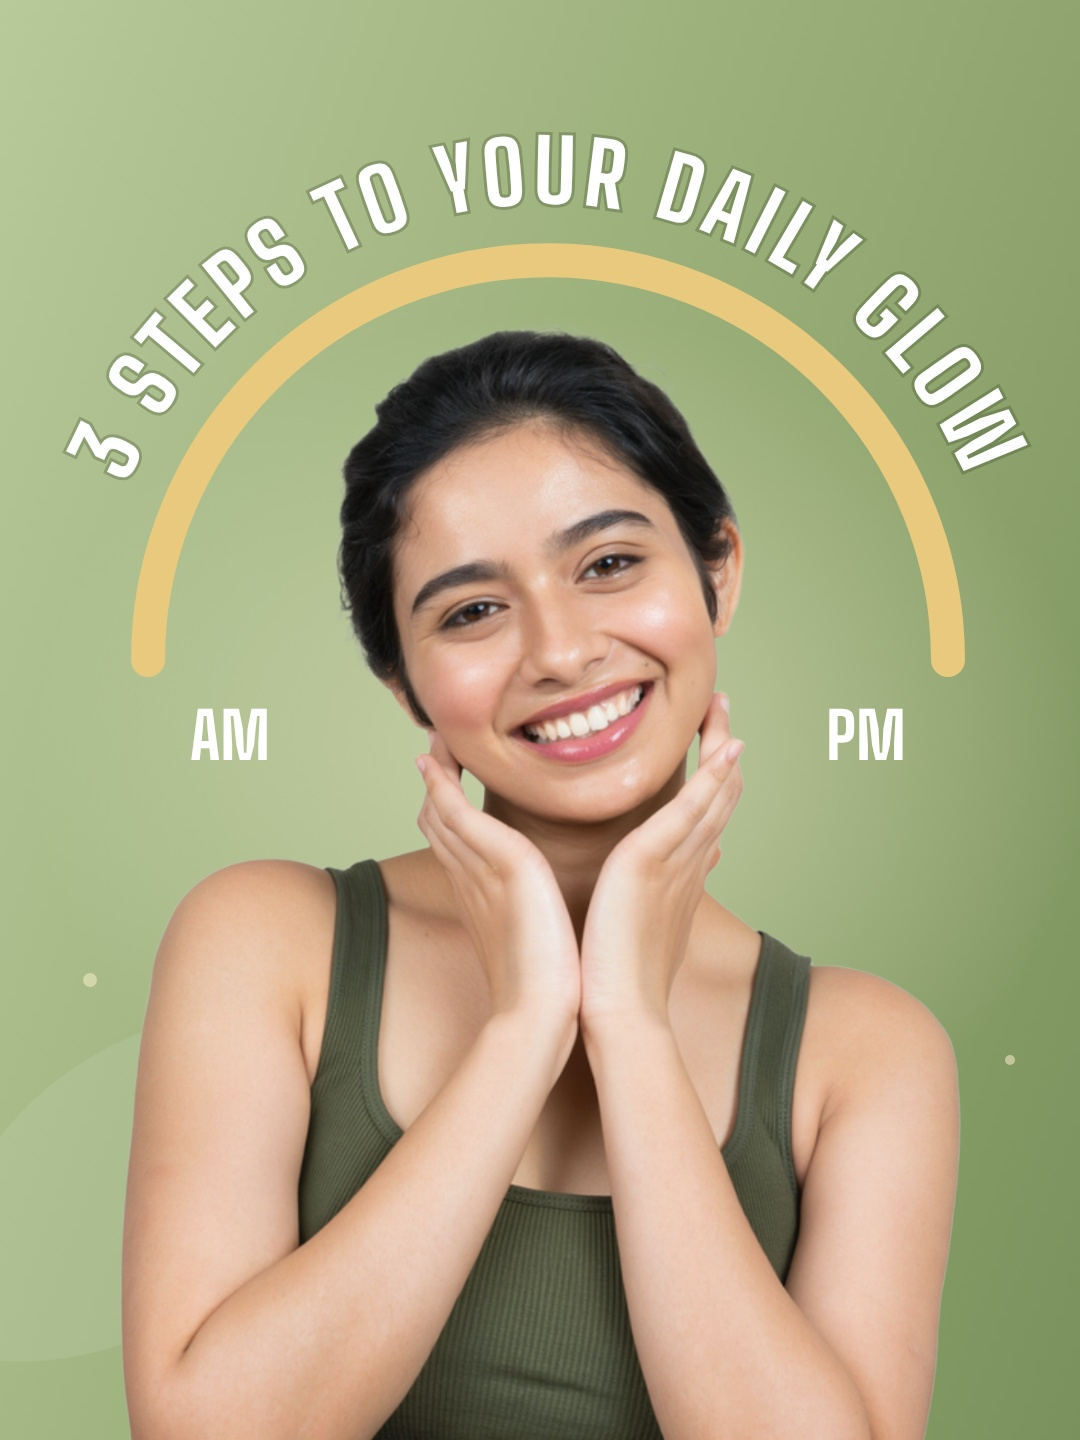
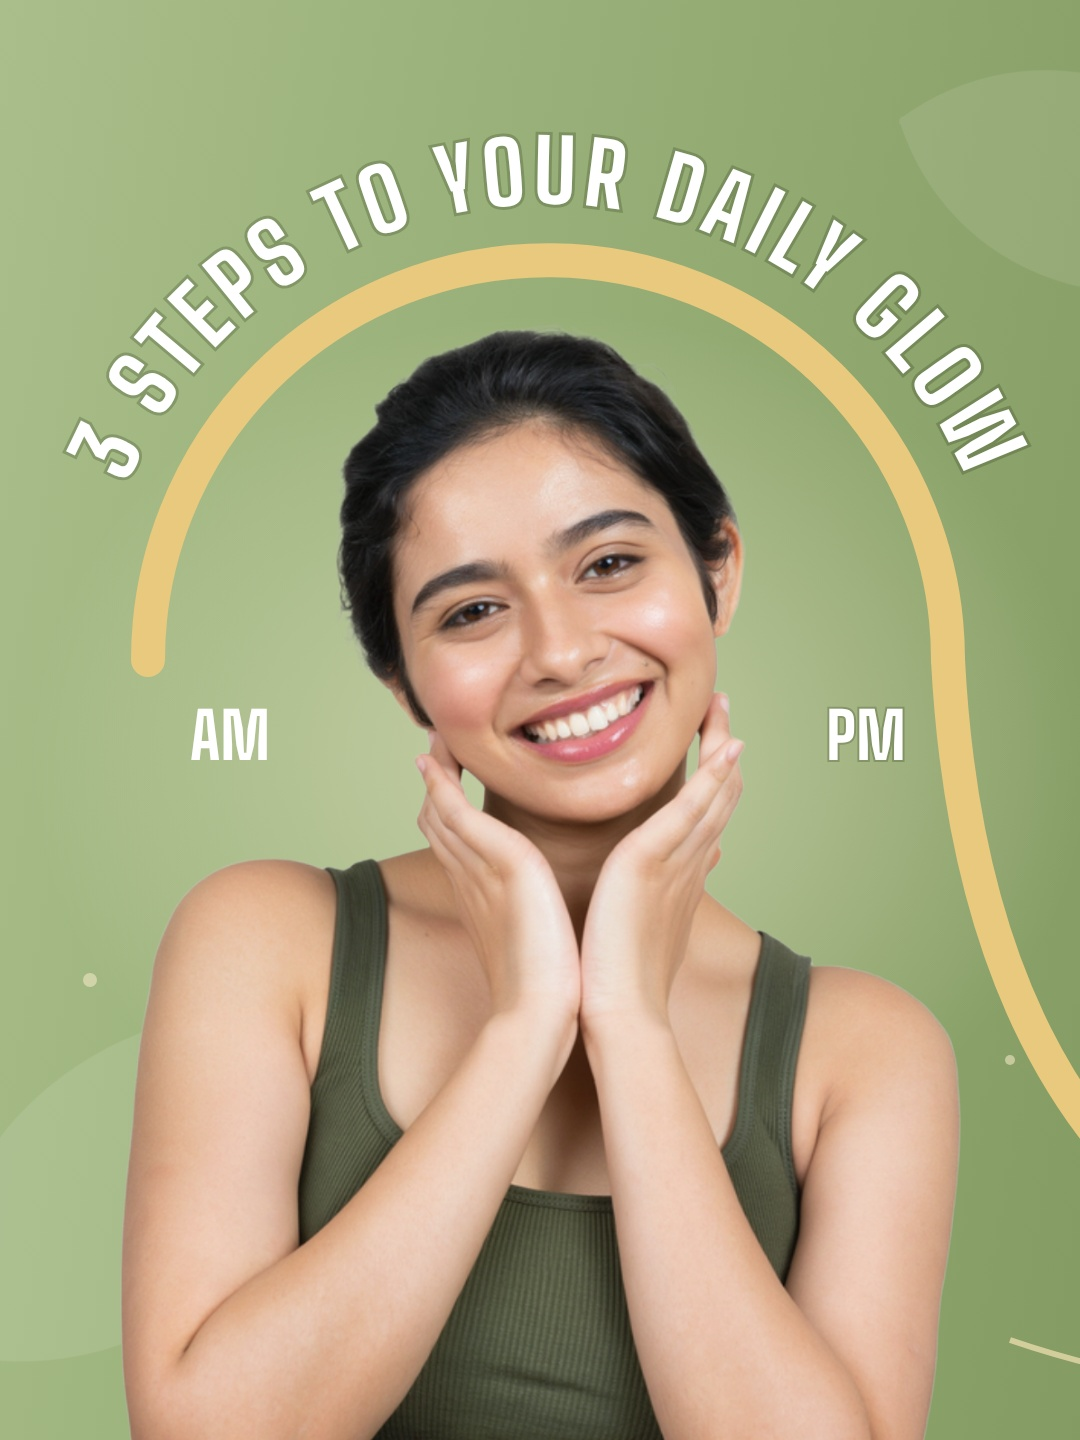
Instagram panorama: gold ribbon and leaves flowing across tiles
Claude-Session: https://claude.ai/code/session_01LcLnYNDzurLSB8XLdGSFaY

Changed region(s): [[0.7639, 0.4688, 1.0, 0.7812], [0.9778, 0.9375, 1.0, 0.9688]]

diff --git a/brand/lumira-beauty/social/instagram-panorama/source/ig.html b/brand/lumira-beauty/social/instagram-panorama/source/ig.html
@@ -4,7 +4,7 @@ html,body{margin:0} .abs{position:absolute}
 #c{position:relative;width:3240px;height:1440px;overflow:hidden;font-family:Jost;color:#fff;
  background:radial-gradient(760px 640px at 560px 760px,rgba(246,240,214,.5),rgba(246,240,214,0) 70%),
  radial-gradient(620px 560px at 1620px 820px,rgba(247,241,220,.42),rgba(247,241,220,0) 72%),
- linear-gradient(110deg,#B8C99A 0%,#93A872 26%,#6D8451 52%,#4B5E36 78%,#3A4A2B 100%)}
+ linear-gradient(100deg,#A9BE8A 0%,#8CA36B 30%,#748B55 55%,#5E7443 80%,#52673A 100%)}
 .step{width:360px;white-space:nowrap;text-align:center;font-weight:600;font-size:28px;letter-spacing:.22em;color:#F3DFA8;text-shadow:0 2px 8px rgba(30,40,20,.35)}
 .lab{font-weight:600;letter-spacing:.34em;font-size:32px;color:#E8CC8A}
 </style></head><body><div id="c">
@@ -13,16 +13,20 @@ html,body{margin:0} .abs{position:absolute}
  <g id="leaf"><path d="M0 0 C 50 -70 150 -75 220 0 C 150 75 50 70 0 0 Z"/><path d="M0 0 L 215 0" stroke-width="4" fill="none"/></g></defs>
  <g fill="#fff" stroke="#fff" opacity=".10">
   <use href="#leaf" transform="translate(-60 1350) rotate(-40) scale(2.4)"/>
-  <use href="#leaf" transform="translate(1250 250) rotate(-20) scale(1.3)"/>
+  <use href="#leaf" transform="translate(900 120) rotate(18) scale(1.9)"/>
+  <use href="#leaf" transform="translate(1980 1180) rotate(-28) scale(2.2)"/>
+  <use href="#leaf" transform="translate(2070 140) rotate(25) scale(1.4)"/>
   <use href="#leaf" transform="translate(3300 1150) rotate(200) scale(2.6)"/>
   <use href="#leaf" transform="translate(2950 -60) rotate(70) scale(2)"/>
  </g>
  <g fill="#F7EBC8" opacity=".55"><circle cx="90" cy="980" r="7"/><circle cx="1010" cy="1060" r="5"/><circle cx="1180" cy="620" r="6"/><circle cx="2080" cy="520" r="5"/><circle cx="3120" cy="420" r="6"/><circle cx="2300" cy="1300" r="5"/></g>
+ <path d="M 948 660 C 962 930 1050 1180 1300 1290 S 1900 1395 2250 1330 S 2900 1270 3300 1290" fill="none" stroke="#E8C97E" stroke-width="34" stroke-linecap="round"/>
+ <path d="M 1010 1340 C 1300 1440 1800 1440 2200 1360 S 2900 1350 3300 1370" fill="none" stroke="#F3E2B4" stroke-width="6" opacity=".7"/>
  <use href="#arc" fill="none" stroke="#E8C97E" stroke-width="34" stroke-linecap="round"/>
  <text font-family="BigS" font-size="86" letter-spacing="6" fill="#fff" style="paint-order:stroke" stroke="rgba(40,55,25,.25)" stroke-width="6">
   <textPath href="#arcT" startOffset="50%" text-anchor="middle">3 STEPS TO YOUR DAILY GLOW</textPath></text>
  <text x="230" y="760" font-family="BigS" font-size="64" fill="#fff" text-anchor="middle">AM</text>
- <text x="866" y="760" font-family="BigS" font-size="64" fill="#fff" text-anchor="middle">PM</text>
+ <text x="866" y="760" font-family="BigS" font-size="64" fill="#fff" text-anchor="middle" style="paint-order:stroke" stroke="rgba(40,55,25,.25)" stroke-width="4">PM</text>
 </svg>
 <img class="abs" src="model_final.png" style="left:120px;top:322px;height:1180px">
 <div class="abs" style="left:1080px;top:120px;width:1080px;text-align:center">

diff --git a/brand/lumira-beauty/social/instagram-panorama/source/build.py b/brand/lumira-beauty/social/instagram-panorama/source/build.py
@@ -15,7 +15,7 @@ html,body{{margin:0}} .abs{{position:absolute}}
 #c{{position:relative;width:3240px;height:1440px;overflow:hidden;font-family:Jost;color:#fff;
  background:radial-gradient(760px 640px at 560px 760px,rgba(246,240,214,.5),rgba(246,240,214,0) 70%),
  radial-gradient(620px 560px at 1620px 820px,rgba(247,241,220,.42),rgba(247,241,220,0) 72%),
- linear-gradient(110deg,#B8C99A 0%,#93A872 26%,#6D8451 52%,#4B5E36 78%,#3A4A2B 100%)}}
+ linear-gradient(100deg,#A9BE8A 0%,#8CA36B 30%,#748B55 55%,#5E7443 80%,#52673A 100%)}}
 .step{{width:360px;white-space:nowrap;text-align:center;font-weight:600;font-size:28px;letter-spacing:.22em;color:#F3DFA8;text-shadow:0 2px 8px rgba(30,40,20,.35)}}
 .lab{{font-weight:600;letter-spacing:.34em;font-size:32px;color:#E8CC8A}}
 </style></head><body><div id="c">
@@ -24,16 +24,20 @@ html,body{{margin:0}} .abs{{position:absolute}}
  <g id="leaf"><path d="M0 0 C 50 -70 150 -75 220 0 C 150 75 50 70 0 0 Z"/><path d="M0 0 L 215 0" stroke-width="4" fill="none"/></g></defs>
  <g fill="#fff" stroke="#fff" opacity=".10">
   <use href="#leaf" transform="translate(-60 1350) rotate(-40) scale(2.4)"/>
-  <use href="#leaf" transform="translate(1250 250) rotate(-20) scale(1.3)"/>
+  <use href="#leaf" transform="translate(900 120) rotate(18) scale(1.9)"/>
+  <use href="#leaf" transform="translate(1980 1180) rotate(-28) scale(2.2)"/>
+  <use href="#leaf" transform="translate(2070 140) rotate(25) scale(1.4)"/>
   <use href="#leaf" transform="translate(3300 1150) rotate(200) scale(2.6)"/>
   <use href="#leaf" transform="translate(2950 -60) rotate(70) scale(2)"/>
  </g>
  <g fill="#F7EBC8" opacity=".55"><circle cx="90" cy="980" r="7"/><circle cx="1010" cy="1060" r="5"/><circle cx="1180" cy="620" r="6"/><circle cx="2080" cy="520" r="5"/><circle cx="3120" cy="420" r="6"/><circle cx="2300" cy="1300" r="5"/></g>
+ <path d="M 948 660 C 962 930 1050 1180 1300 1290 S 1900 1395 2250 1330 S 2900 1270 3300 1290" fill="none" stroke="#E8C97E" stroke-width="34" stroke-linecap="round"/>
+ <path d="M 1010 1340 C 1300 1440 1800 1440 2200 1360 S 2900 1350 3300 1370" fill="none" stroke="#F3E2B4" stroke-width="6" opacity=".7"/>
  <use href="#arc" fill="none" stroke="#E8C97E" stroke-width="34" stroke-linecap="round"/>
  <text font-family="BigS" font-size="86" letter-spacing="6" fill="#fff" style="paint-order:stroke" stroke="rgba(40,55,25,.25)" stroke-width="6">
   <textPath href="#arcT" startOffset="50%" text-anchor="middle">3 STEPS TO YOUR DAILY GLOW</textPath></text>
  <text x="230" y="760" font-family="BigS" font-size="64" fill="#fff" text-anchor="middle">AM</text>
- <text x="866" y="760" font-family="BigS" font-size="64" fill="#fff" text-anchor="middle">PM</text>
+ <text x="866" y="760" font-family="BigS" font-size="64" fill="#fff" text-anchor="middle" style="paint-order:stroke" stroke="rgba(40,55,25,.25)" stroke-width="4">PM</text>
 </svg>
 <img class="abs" src="model_final.png" style="left:120px;top:322px;height:1180px">
 <div class="abs" style="left:1080px;top:120px;width:1080px;text-align:center">
